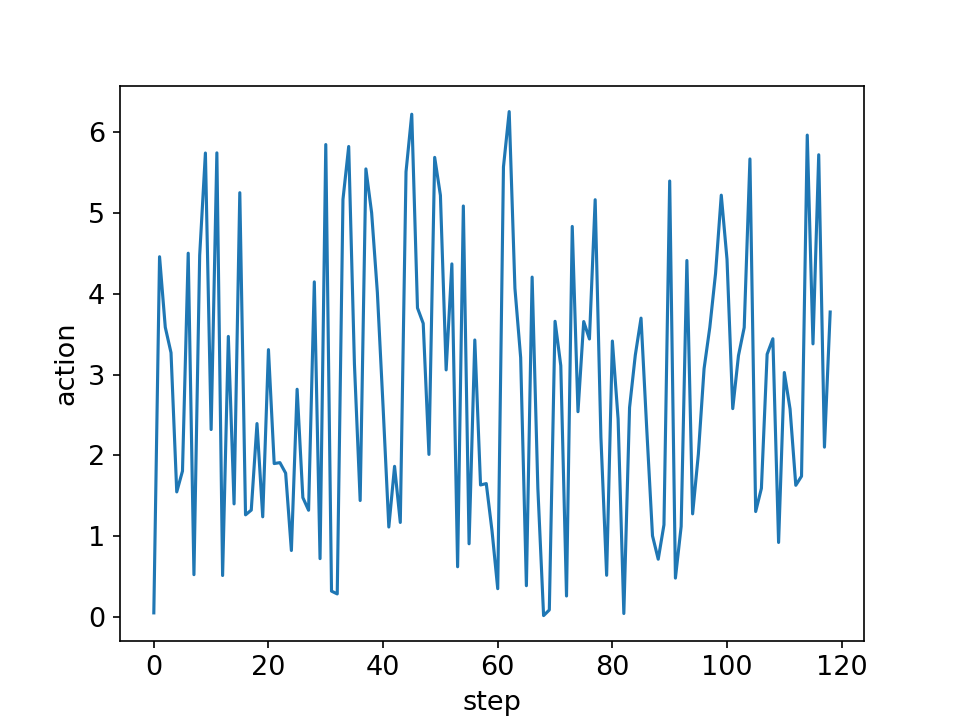
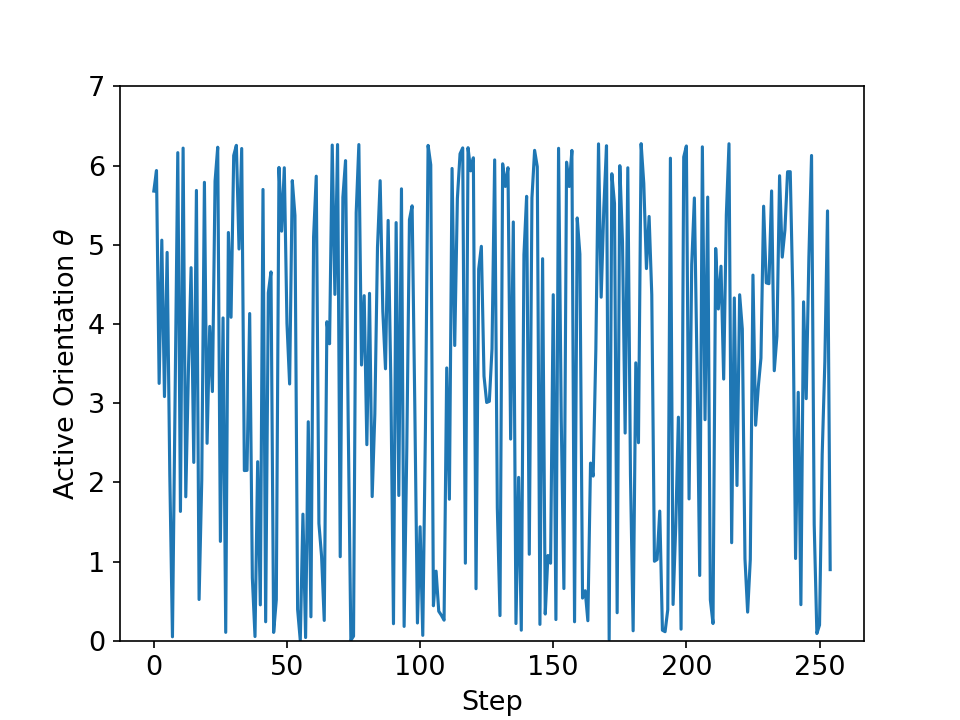
Changed update

diff --git a/plot_utils.py b/plot_utils.py
@@ -4,8 +4,9 @@ import os
 import shutil
 
 class RLPlotter():
-    def __init__(self, logger):
+    def __init__(self, logger, goal_area):
         self.logger = logger
+        self.goal_area = goal_area
 
     def clear_plots(self):
         clear_folder('episode_losses')
@@ -13,6 +14,7 @@ class RLPlotter():
         clear_folder('episode_paths')
         clear_folder('run_losses')
         clear_folder('episode_steps')
+        clear_folder('episode_actions_polar')
 
     def plot_last_episode(self):
         self.plot_last_episode_losses()
@@ -20,14 +22,15 @@ class RLPlotter():
         self.plot_last_episode_paths()
         self.plot_last_losses()
         self.plot_last_episode_steps()
+        self.plot_last_episdode_actions_polar()
 
     def plot_last_episode_losses(self):        
         folder = os.path.join('logs', 'episode_losses')
         i = len(self.logger.episode_losses)-1
         x = np.arange(len(self.logger.episode_losses[i]))
         plt.plot(x, self.logger.episode_losses[i])
-        plt.xlabel('step')
-        plt.ylabel('loss')
+        plt.xlabel('Step')
+        plt.ylabel('Loss')
         plt.title(f'Episode {i} MSE')
         plt.savefig(os.path.join(folder, f'episode{i}_losses.png'))
         plt.clf()
@@ -38,8 +41,8 @@ class RLPlotter():
         os.makedirs(folder, exist_ok=True)
         x = np.arange(len(self.logger.losses))
         plt.plot(x, self.logger.losses)
-        plt.xlabel('step')
-        plt.ylabel('loss')
+        plt.xlabel('Step')
+        plt.ylabel('Loss')
         plt.title('Run MSE')
         plt.savefig(os.path.join(folder, 'run_losses.png'))
         plt.clf()
@@ -50,8 +53,8 @@ class RLPlotter():
         os.makedirs(folder, exist_ok=True)
         x = np.arange(len(self.logger.episode_steps))
         plt.plot(x, self.logger.episode_steps)
-        plt.xlabel('episode')
-        plt.ylabel('steps')
+        plt.xlabel('Episode')
+        plt.ylabel('Steps')
         plt.savefig(os.path.join(folder, 'episode_steps.png'))
         plt.clf()
     
@@ -60,9 +63,20 @@ class RLPlotter():
         i = len(self.logger.episode_actions) - 1
         x = np.arange(len(self.logger.episode_actions[i]))
         plt.plot(x, self.logger.episode_actions[i])
-        plt.xlabel('step')
-        plt.ylabel('action')
+        plt.xlabel('Step')
+        plt.ylabel(r'Active Orientation $\theta$')
+        plt.ylim(0,7)
         plt.savefig(os.path.join(folder, f'episode{i}_actions.png'))
+        plt.clf()
+    
+    def plot_last_episdode_actions_polar(self):
+        folder = os.path.join('logs', 'episode_actions_polar')
+        i = len(self.logger.episode_actions) - 1
+        x = np.arange(len(self.logger.episode_actions[i]))
+        fig = plt.figure()
+        ax = plt.subplot(111, polar=True)
+        ax.scatter(self.logger.episode_actions[i], x, c=x, cmap = 'plasma')
+        fig.savefig(os.path.join(folder, f'episode{i}_actions_polar.png'))
         plt.clf()
 
     def plot_last_episode_paths(self):
@@ -70,7 +84,7 @@ class RLPlotter():
         i = len(self.logger.episode_states) - 1
         x = np.array(self.logger.episode_states[i])[:,0,0]
         y = np.array(self.logger.episode_states[i])[:,0,1]
-        plot_normalized_mexican_hat_potential()
+        plot_normalized_mexican_hat_potential(self.goal_area)
         plt.plot(x, y)
         plt.xlabel('x')
         plt.ylabel('y')
@@ -78,7 +92,7 @@ class RLPlotter():
         plt.savefig(os.path.join(folder, f'episode{i}_path.png'))
         plt.clf()
 
-def plot_normalized_mexican_hat_potential():
+def plot_normalized_mexican_hat_potential(goal_area):
     x,y = np.meshgrid(np.linspace(-1,1,100),np.linspace(-1,1,100))
     bool = (x**2+y**2)**0.5>0.5
     Potential = 16*(x**2+y**2-0.25)**2
@@ -87,7 +101,7 @@ def plot_normalized_mexican_hat_potential():
     plt.ylim(-1,1)
     plt.scatter(-0.5,0,c='black',label='start',marker='D')    
     plt.scatter(0.5,0,c='black',label='goal',marker='x')
-
+    plt.Rectangle((goal_area.centerX, goal_area.centerY), goal_area.width, goal_area.height, color='black', fill=False, alpha=0.5, label='goal area')
     plt.imshow(Potential,cmap = 'Greys',extent=[-1,1,-1,1],origin='lower')
     colorbar = plt.colorbar()
     colorbar.set_label(r'$U/U_0$',labelpad=10,fontsize = 20)

diff --git a/agent_utils.py b/agent_utils.py
@@ -23,16 +23,16 @@ class ReplayBuffer:
         self.state2_buf = np.zeros((size, agent_batch_size, state_dim), dtype=np.float32)
         self.action_buf = np.zeros((size, agent_batch_size, act_dim), dtype=np.float32)
         self.reward_buf = np.zeros((size, agent_batch_size), dtype=np.float32)
-        self.loss_buf = np.zeros((size, agent_batch_size), dtype=np.float32)
+        self.probabilities_buff = np.zeros((size, agent_batch_size), dtype=np.float32)
         self.done_buf   = np.zeros((size, agent_batch_size), dtype=np.float32)
         self.pointer, self.size, self.max_size = 0, 0, size
 
-    def store(self, state_now, action, reward, state_next, loss, done):
+    def store(self, state_now, action, reward, state_next, probabilities, done):
         self.state_buf[self.pointer] = state_now
         self.state2_buf[self.pointer] = state_next
         self.action_buf[self.pointer] = action.detach().cpu().numpy()
         self.reward_buf[self.pointer] = reward
-        self.loss_buf[self.pointer] = loss
+        self.probabilities_buff[self.pointer] = probabilities
         self.done_buf[self.pointer] = done
         self.pointer = (self.pointer+1) % self.max_size
         self.size = min(self.size+1, self.max_size)
@@ -45,3 +45,4 @@ class ReplayBuffer:
                      reward = self.reward_buf[idxs],
                      done = self.done_buf[idxs])
         return {k: tr.as_tensor(v, dtype=tr.float32, device=device) for k,v in batch.items()}
+    

diff --git a/agents.py b/agents.py
@@ -51,16 +51,14 @@ class SquashedGaussianActor(nn.Module):
 class QCritic(nn.Module):
     def __init__(self, state_dim, act_dim, hidden_dims, activation):
         super().__init__()
-        self.net = NNSequential([state_dim+act_dim] + list(hidden_dims) + [1], activation)
+        self.net = NNSequential([state_dim+act_dim] + list(hidden_dims) + [1], activation, output_activation=nn.LeakyReLU)
     
     def forward(self, state, action):
         q = self.net(tr.cat([state, action], dim=-1))
-        if tr.isnan(q).any():
-            print('q is nana')
         return tr.squeeze(q, -1)
 
 class SACAgent(nn.Module):
-    def __init__(self, state_dim, act_dim, hidden_dims=(64,64), act_scaling=1, act_positive=False, activation=nn.ReLU):
+    def __init__(self, state_dim, act_dim, hidden_dims=(64,64), act_scaling=1, act_positive=False, activation=nn.LeakyReLU):
         super().__init__()
         self.actor = SquashedGaussianActor(state_dim, act_dim, hidden_dims, activation, act_scaling, act_positive)
         self.critic1 = QCritic(state_dim, act_dim, hidden_dims, activation)

diff --git a/environments.py b/environments.py
@@ -39,16 +39,17 @@ class BoxEnvironment1(gym.Env):
         # self.state[:,4] = theta
 
         # Compute reward
-        reward = self.reward(dt, np.invert(inside_space).astype(int))
+        reward = self.reward(dt, np.array(inside_space).astype(int))
 
         return reward
     
-    def reward(self, dt, not_inside_space):
+    def reward(self, dt, inside_space):
         # Compute reward
+        not_inside_space = np.logical_not(inside_space)
         reward = -dt*np.ones(self.state.shape[0])
         wincondition = np.array(self.goal_check()).astype(int)
-        reward += wincondition*100
-        reward -= not_inside_space*10
+        reward += wincondition*1
+        reward -= not_inside_space*0.2
 
         return reward
     
